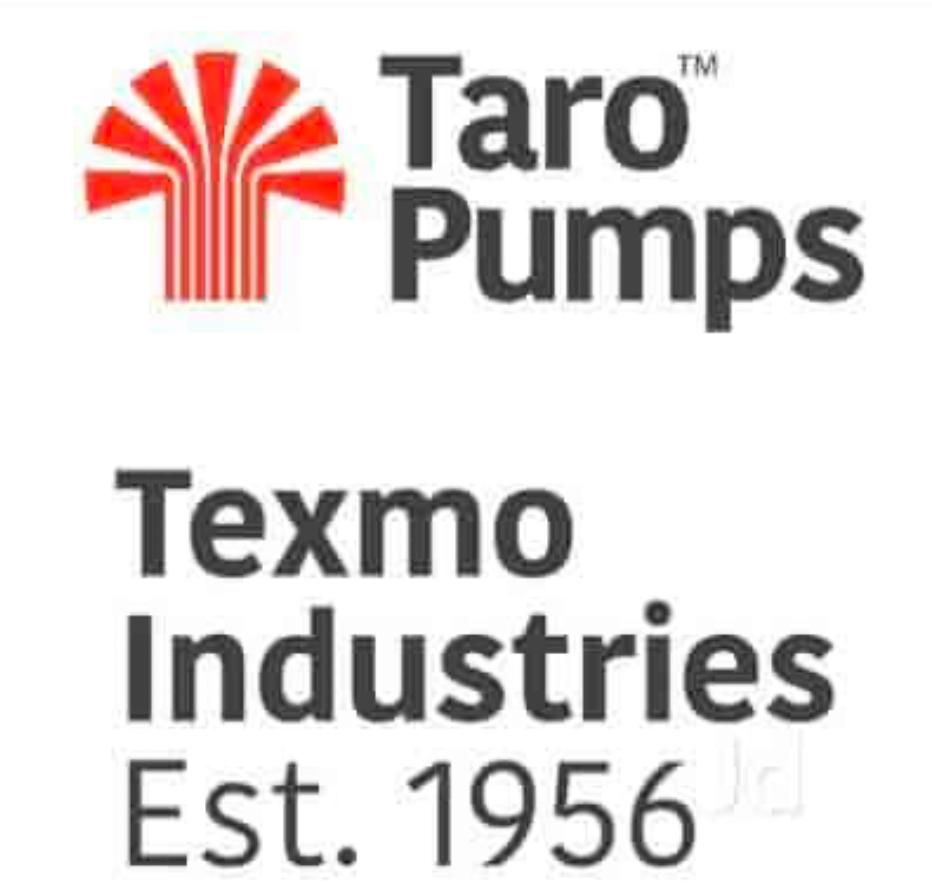
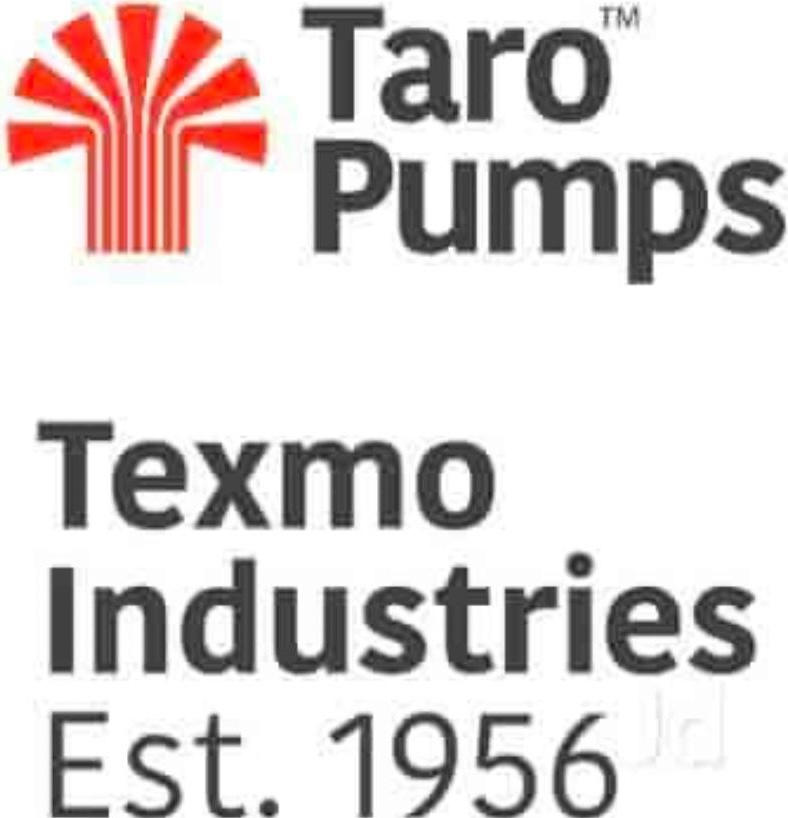
images update

diff --git a/builder-gallery.html b/builder-gallery.html
@@ -287,7 +287,7 @@
                     <!-- End Single Gallery -->
 
                     <!-- Start Single Gallery -->
-                    <div class="col-lg-4 col-md-4 col-sm-6 col-12 gallery__item cat--2">
+                    <div class="col-lg-4 col-md-4 col-sm-6 col-12 gallery__item cat--2" style="margin-top: 10px;">
                         <div class="gallery">
                             <div class="gallery__thumb gal-p">
                                 <a href="images/gallery/gallery/11.jpg">
@@ -331,7 +331,7 @@
 
 
                     <!-- Start Single Gallery -->
-                    <div class="col-lg-4 col-md-4 col-sm-6 col-12 gallery__item cat--2" style="margin-top: 3px;">
+                    <div class="col-lg-4 col-md-4 col-sm-6 col-12 gallery__item cat--2" >
                         <div class="gallery">
                             <div class="gallery__thumb gal-p">
                                 <a href="images/gallery/gallery/6.jpg">
@@ -702,7 +702,7 @@
                     <!-- End Single Gallery -->
 
                     <!-- Start Single Gallery -->
-                    <div class="col-lg-4 col-md-4 col-sm-6 col-12 gallery__item cat--2">
+                    <div class="col-lg-4 col-md-4 col-sm-6 col-12 gallery__item cat--2" >
                         <div class="gallery">
                             <div class="gallery__thumb gal-p">
                                 <a href="images/gallery/gallery/36.jpg">

diff --git a/clientele.html b/clientele.html
@@ -239,7 +239,7 @@
 							<img src="images/brand/bricks.jpg" class="blend-multiply">
 						</div>
 						<div class="grid-item cli">
-							<img src="images/brand/taro.jpeg" class="blend-multiply">
+							<img src="images/brand/taro.jpeg" class="blend-multiply" style="height: 81px; width: 195px; object-fit: contain;">
 						</div>
 					</div>
 				</div>
